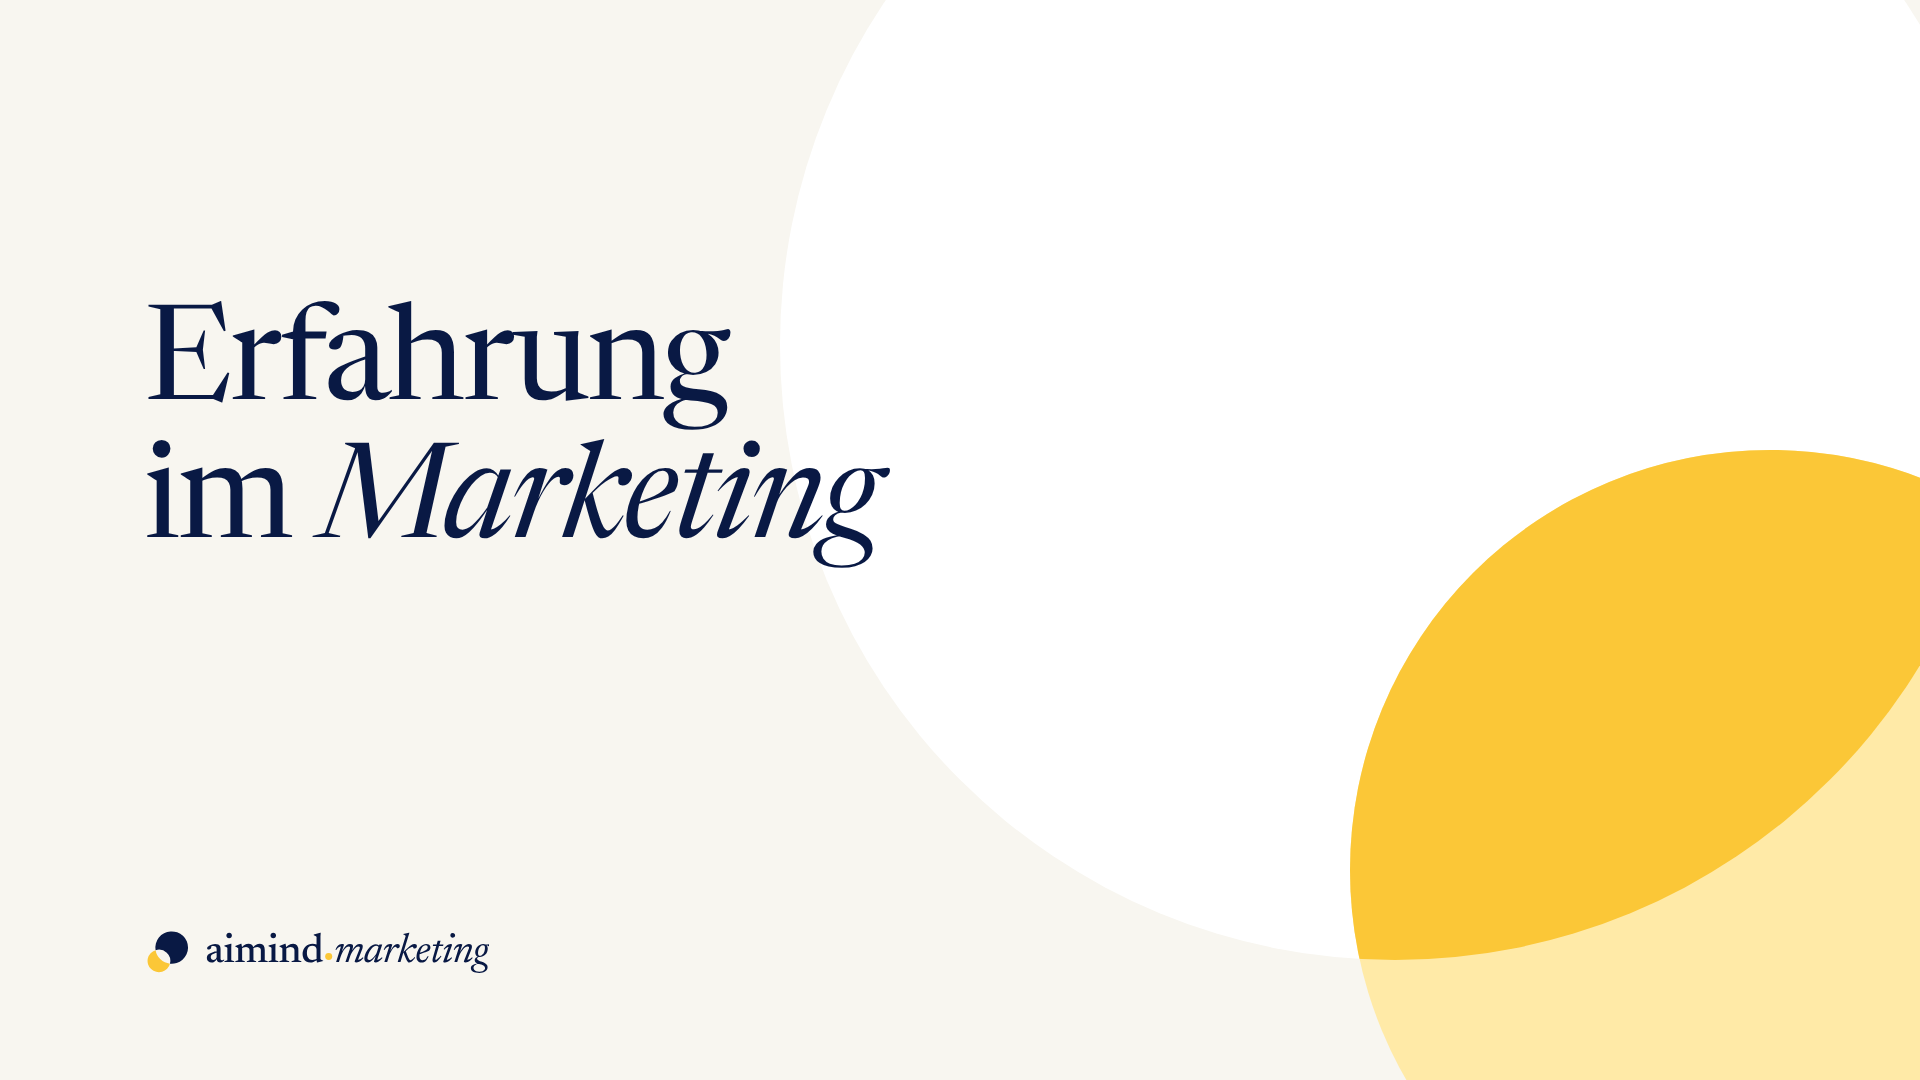
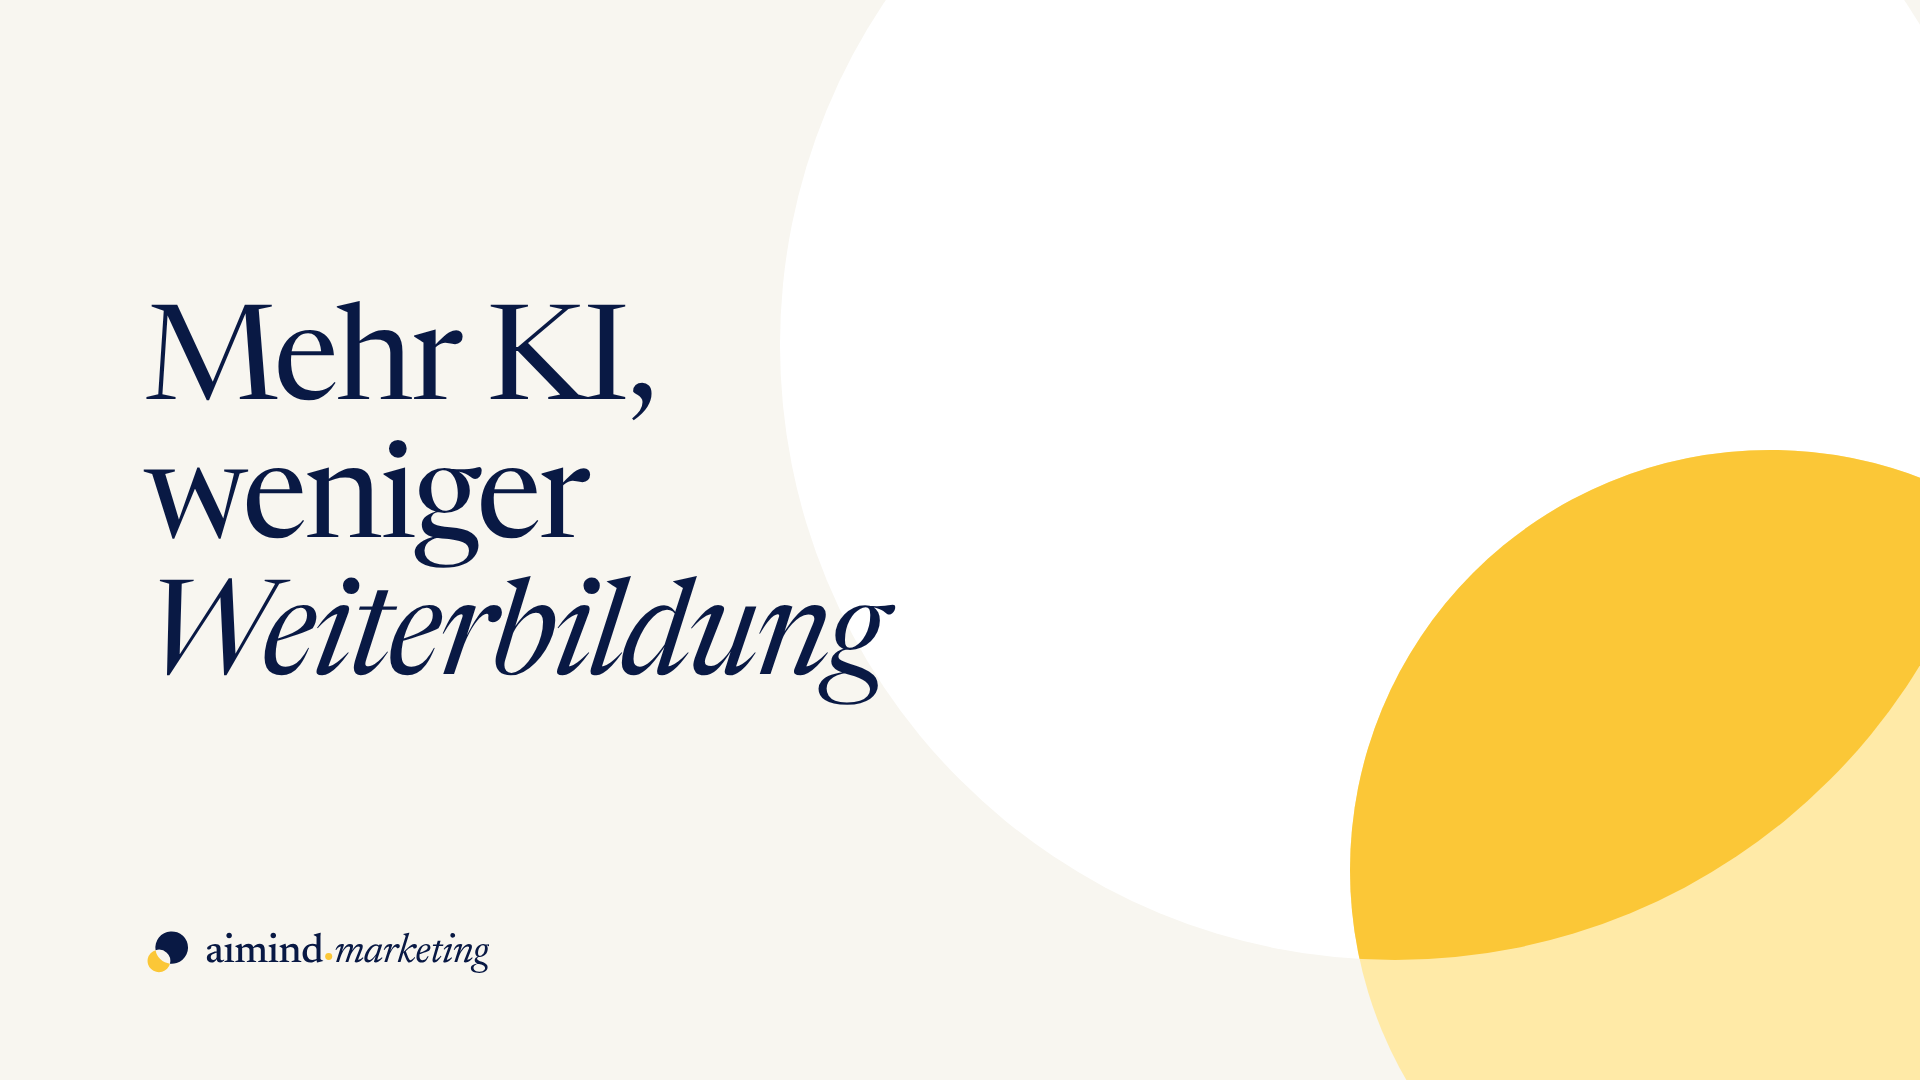
Pulse covers with the agreed cover texts (AI, ROI, CMO)
Claude-Session: https://claude.ai/code/session_01EoT7BpRMXSboJ4awkNYbjF

Changed region(s): [[0.0625, 0.3972, 0.4688, 0.6417], [0.0625, 0.275, 0.375, 0.3972]]

diff --git a/design/infographics/roi-pulse-cover-de.html b/design/infographics/roi-pulse-cover-de.html
@@ -9,12 +9,12 @@ body{background:#f8f6f0;color:#091944;position:relative;overflow:hidden;isolatio
 .c1{position:absolute;width:820px;height:820px;border-radius:50%;background:#fff;left:520px;top:-180px;z-index:-2}
 .c2{position:absolute;width:560px;height:560px;border-radius:50%;background:#ffeaa7;left:900px;top:300px;z-index:-1}
 .lens{position:absolute;left:0;top:0;z-index:-1}
-.topic{position:absolute;left:96px;top:200px;font-family:"Newsreader",serif;font-weight:400;font-size:88px;line-height:1.04;letter-spacing:-.02em}
+.topic{position:absolute;left:96px;top:150px;font-family:"Newsreader",serif;font-weight:400;font-size:66px;line-height:1.04;letter-spacing:-.02em}
 .topic em{font-style:italic}
 img{position:absolute;left:96px;bottom:70px;width:230px}
 </style></head><body>
 <div class="c1"></div><div class="c2"></div>
 <svg class="lens" width="1280" height="720"><defs><clipPath id="a"><circle cx="930" cy="230" r="410"/></clipPath></defs><circle cx="1180" cy="580" r="280" fill="#fbc737" clip-path="url(#a)"/></svg>
-<div class="topic">Marketing&shy;kennzahlen<br>im <em>Vorstand</em></div>
+<div class="topic">Nur 52&nbsp;%<br>der CMOs belegen<br>den Wert des<br><em>Marketings</em></div>
 <img src="../logo/svg/aimind-logo.svg" alt="aimind.marketing">
 </body></html>

diff --git a/design/infographics/ai-pulse-cover-de.html b/design/infographics/ai-pulse-cover-de.html
@@ -9,12 +9,12 @@ body{background:#f8f6f0;color:#091944;position:relative;overflow:hidden;isolatio
 .c1{position:absolute;width:820px;height:820px;border-radius:50%;background:#fff;left:520px;top:-180px;z-index:-2}
 .c2{position:absolute;width:560px;height:560px;border-radius:50%;background:#ffeaa7;left:900px;top:300px;z-index:-1}
 .lens{position:absolute;left:0;top:0;z-index:-1}
-.topic{position:absolute;left:96px;top:200px;font-family:"Newsreader",serif;font-weight:400;font-size:88px;line-height:1.04;letter-spacing:-.02em}
+.topic{position:absolute;left:96px;top:200px;font-family:"Newsreader",serif;font-weight:400;font-size:82px;line-height:1.04;letter-spacing:-.02em}
 .topic em{font-style:italic}
 img{position:absolute;left:96px;bottom:70px;width:230px}
 </style></head><body>
 <div class="c1"></div><div class="c2"></div>
 <svg class="lens" width="1280" height="720"><defs><clipPath id="a"><circle cx="930" cy="230" r="410"/></clipPath></defs><circle cx="1180" cy="580" r="280" fill="#fbc737" clip-path="url(#a)"/></svg>
-<div class="topic">EU AI Act<br>im <em>Marketing</em></div>
+<div class="topic">Was heißt<br>KI-Kompetenz<br>im <em>Marketing</em>?</div>
 <img src="../logo/svg/aimind-logo.svg" alt="aimind.marketing">
 </body></html>

diff --git a/design/infographics/cmo-pulse-cover-de.html b/design/infographics/cmo-pulse-cover-de.html
@@ -15,6 +15,6 @@ img{position:absolute;left:96px;bottom:70px;width:230px}
 </style></head><body>
 <div class="c1"></div><div class="c2"></div>
 <svg class="lens" width="1280" height="720"><defs><clipPath id="a"><circle cx="930" cy="230" r="410"/></clipPath></defs><circle cx="1180" cy="580" r="280" fill="#fbc737" clip-path="url(#a)"/></svg>
-<div class="topic">Erfahrung<br>im <em>Marketing</em></div>
+<div class="topic">Mehr KI,<br>weniger<br><em>Weiterbildung</em></div>
 <img src="../logo/svg/aimind-logo.svg" alt="aimind.marketing">
 </body></html>
